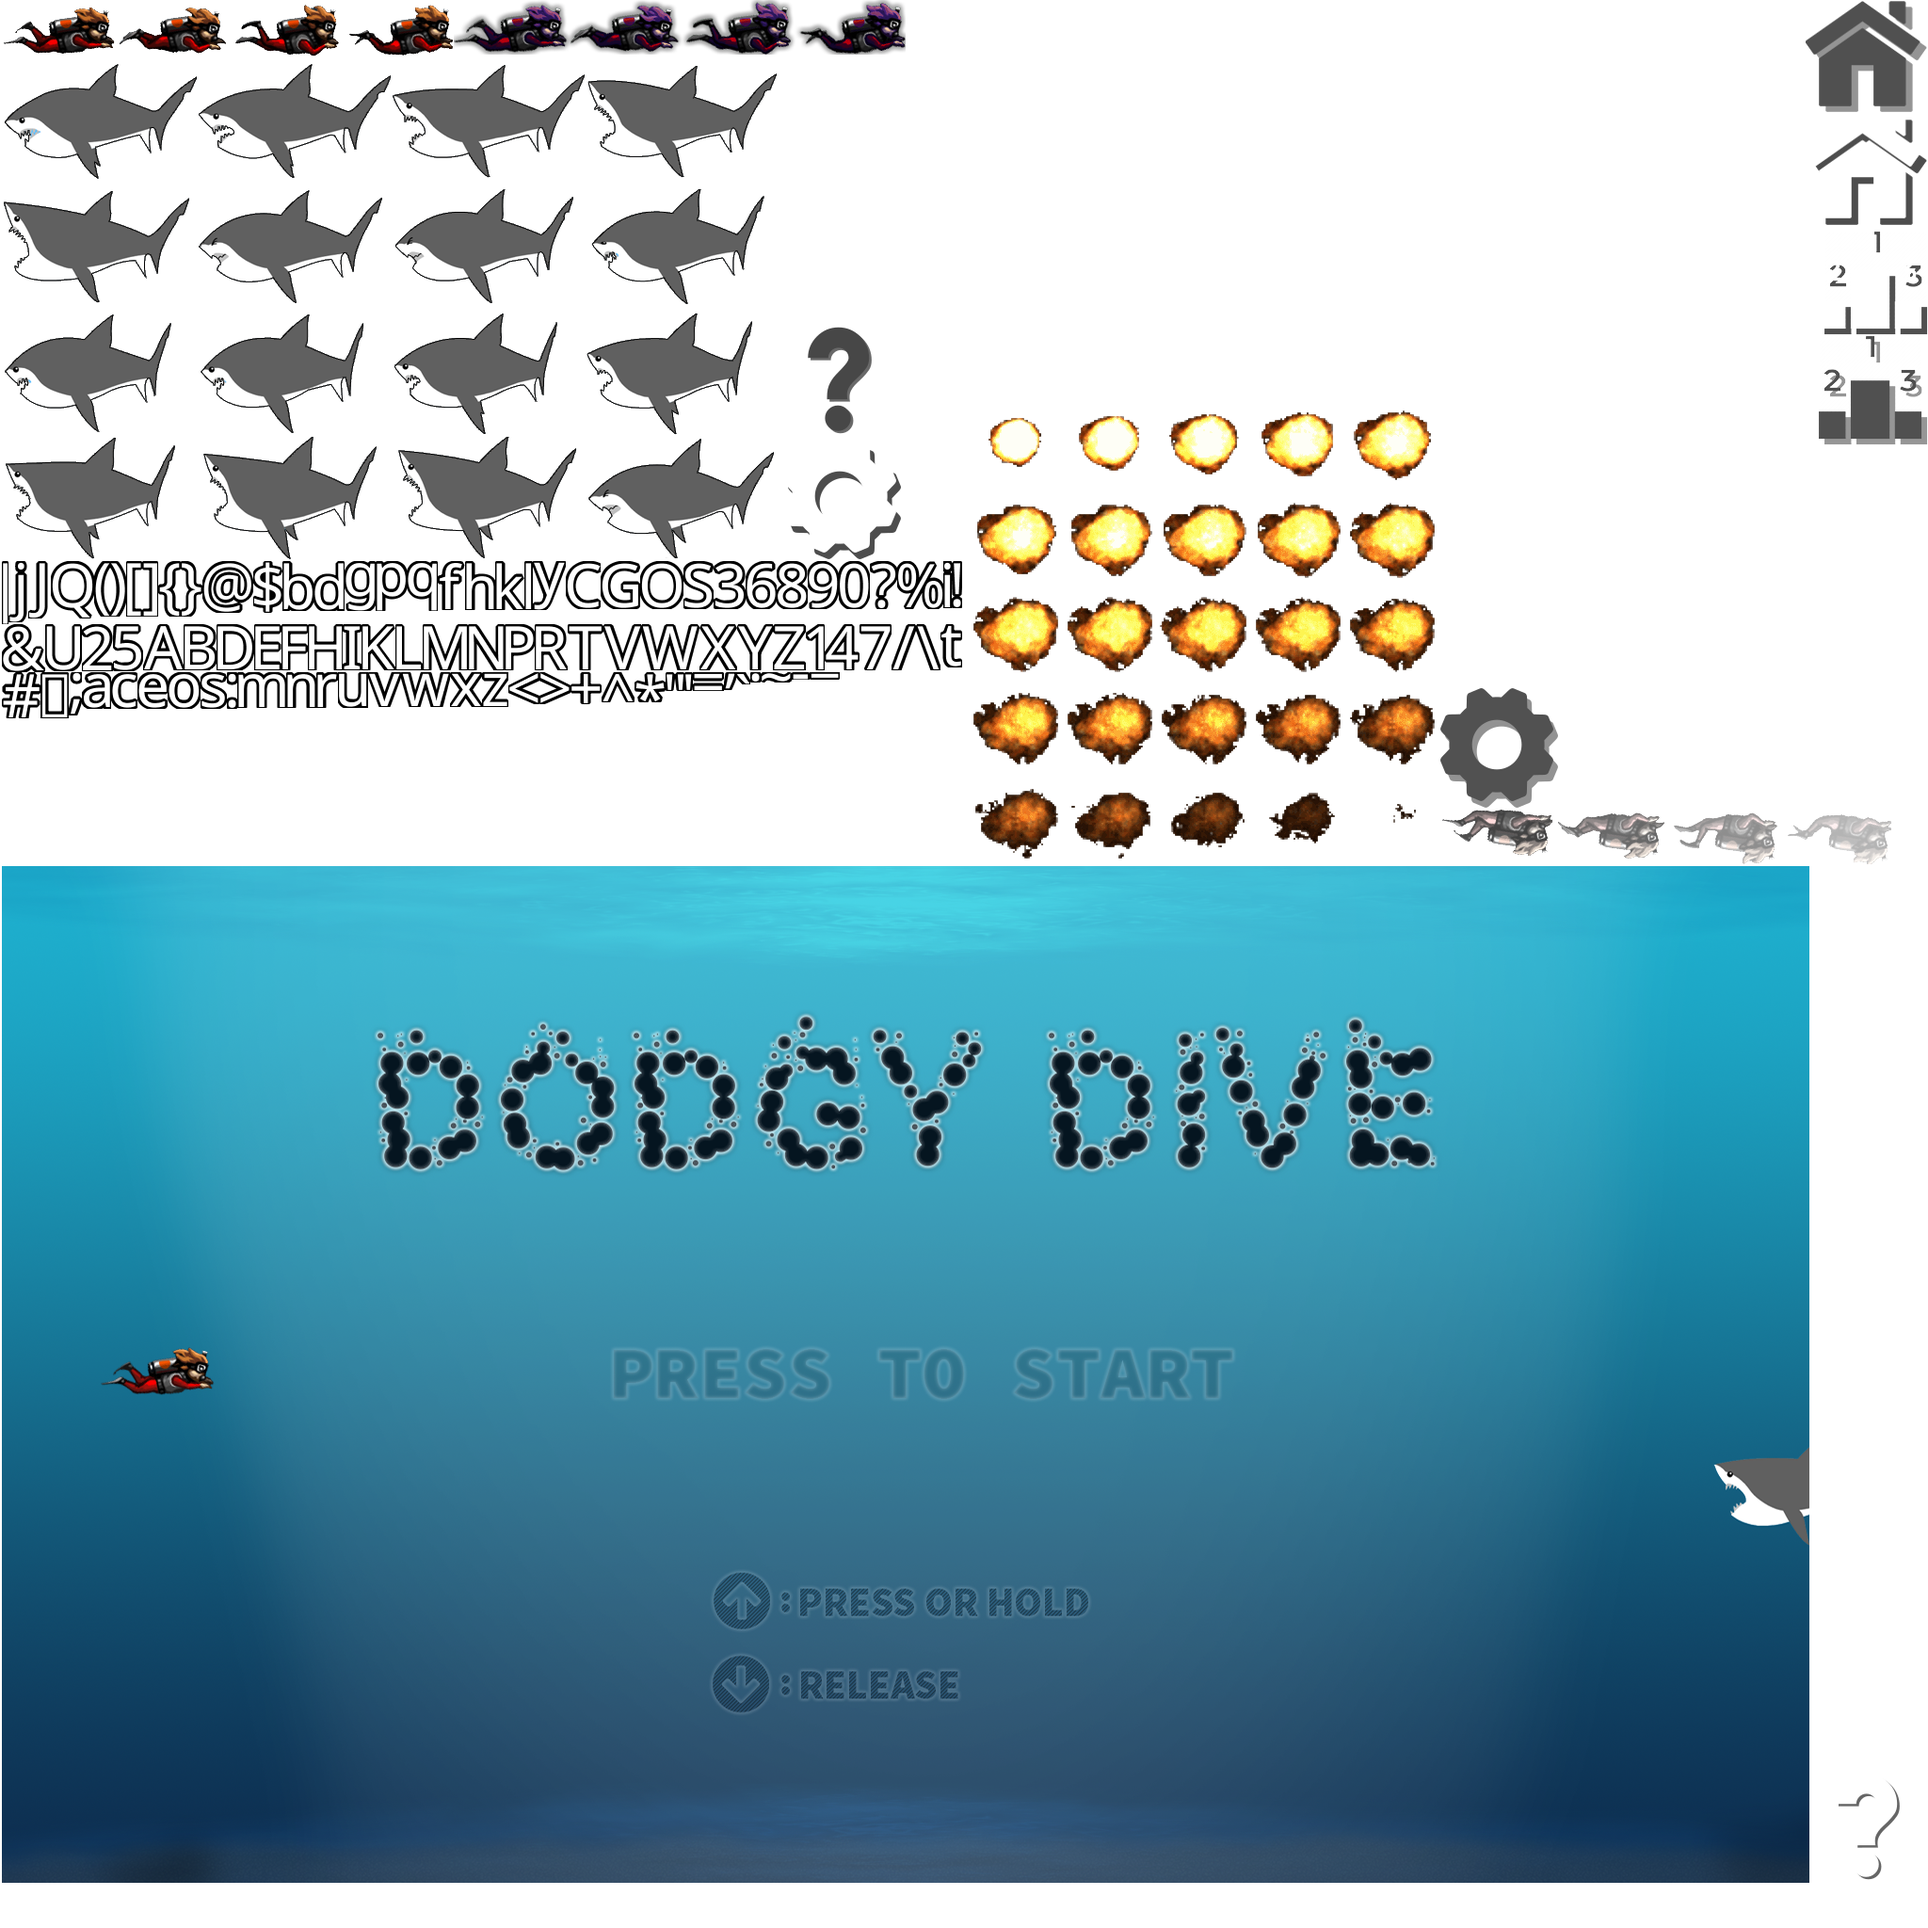
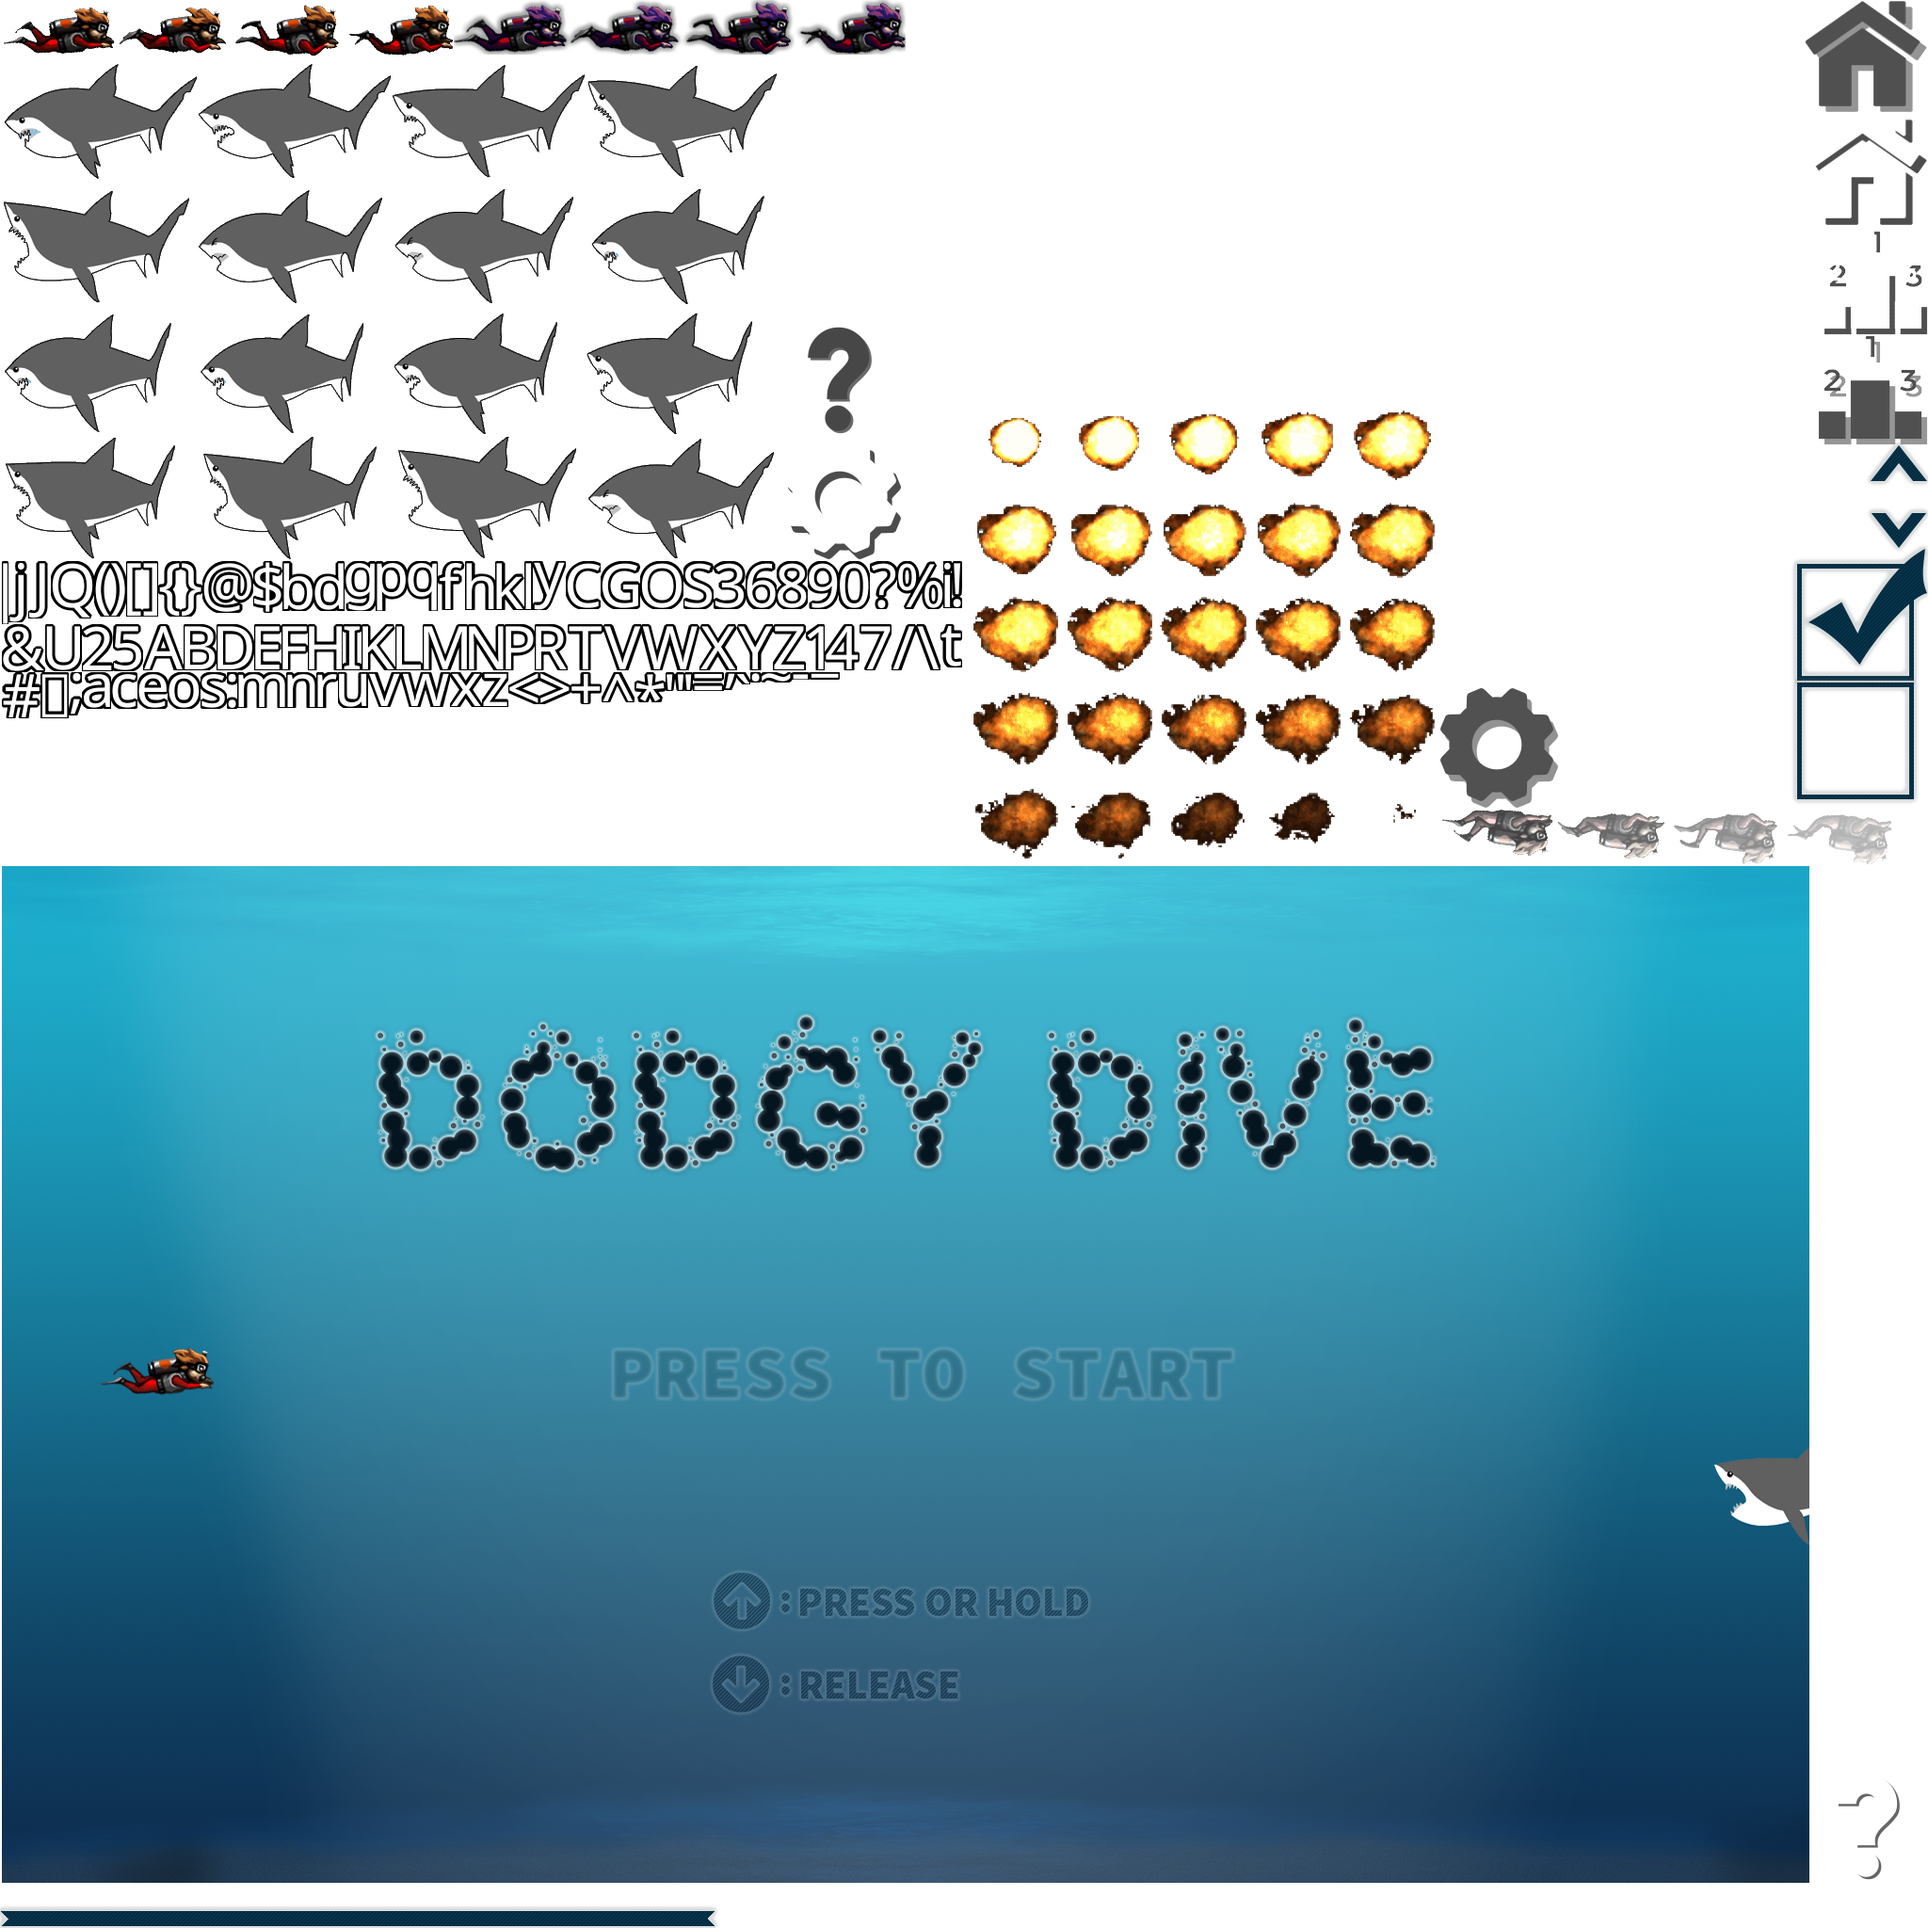
Implemented settings
Settings now work and do what they are supposed to. They persist so even
if you exit the app you'll come back to the same settings.

Changed region(s): [[0.9062, 0.2188, 1.0, 0.4375], [0.0, 0.9688, 0.375, 1.0]]

diff --git a/core/src/com/dodgydive/SettingsScreen.java b/core/src/com/dodgydive/SettingsScreen.java
@@ -5,14 +5,20 @@ import com.badlogic.gdx.Preferences;
 import com.badlogic.gdx.ScreenAdapter;
 import com.badlogic.gdx.graphics.Color;
 import com.badlogic.gdx.graphics.GL20;
+import com.badlogic.gdx.graphics.g2d.BitmapFont;
 import com.badlogic.gdx.graphics.g2d.TextureAtlas;
 import com.badlogic.gdx.graphics.g2d.TextureRegion;
+import com.badlogic.gdx.graphics.g2d.freetype.FreeTypeFontGenerator;
 import com.badlogic.gdx.scenes.scene2d.InputEvent;
 import com.badlogic.gdx.scenes.scene2d.Stage;
+import com.badlogic.gdx.scenes.scene2d.ui.CheckBox;
 import com.badlogic.gdx.scenes.scene2d.ui.Image;
 import com.badlogic.gdx.scenes.scene2d.ui.ImageButton;
+import com.badlogic.gdx.scenes.scene2d.ui.Slider;
 import com.badlogic.gdx.scenes.scene2d.ui.Table;
 import com.badlogic.gdx.scenes.scene2d.utils.ActorGestureListener;
+import com.badlogic.gdx.scenes.scene2d.utils.DragListener;
+import com.badlogic.gdx.scenes.scene2d.utils.Drawable;
 import com.badlogic.gdx.scenes.scene2d.utils.TextureRegionDrawable;
 import com.badlogic.gdx.utils.Align;
 
@@ -34,7 +40,7 @@ public class SettingsScreen extends ScreenAdapter {
 	private final DodgyDiveGame dodgyDiveGame;
 
 	private Stage stage;
-	private Table table;
+	private Table table, settingsTable;
 
 	private TextureRegion backgroundTexture;
 	private TextureRegion creditsTexture;
@@ -43,6 +49,11 @@ public class SettingsScreen extends ScreenAdapter {
 	private TextureRegion homePressedTexture;
 	private TextureRegion scoreboardTexture;
 	private TextureRegion scoreboardPressedTexture;
+	private TextureRegionDrawable sliderBackground;
+	private TextureRegionDrawable sliderKnob;
+	private TextureRegionDrawable checkbox;
+	private TextureRegionDrawable checkboxChecked;
+	private BitmapFont customFont;
 
 
 	public SettingsScreen(DodgyDiveGame dodgyDiveGame) {
@@ -63,6 +74,18 @@ public class SettingsScreen extends ScreenAdapter {
 		// A table is just like an html/excel table that holds UI elements like buttons.
 		table = new Table();
 		table.setFillParent(true);
+		settingsTable = new Table();
+		settingsTable.setFillParent(true);
+
+		FreeTypeFontGenerator generator = new FreeTypeFontGenerator(Gdx.files.internal("score_font.ttf"));
+		FreeTypeFontGenerator.FreeTypeFontParameter parameter = new FreeTypeFontGenerator.FreeTypeFontParameter();
+		parameter.size = 58;
+		parameter.kerning = true;
+		parameter.borderStraight = true;
+		parameter.borderWidth = 1;
+		customFont = generator.generateFont(parameter);
+		customFont.setColor(0, 0, 0, 0.70f); // Make our font slightly transparent so it doesn't obscure sharks during game-play
+		generator.dispose(); // don't forget to dispose to avoid memory leaks!
 
 		// Load the textureAtlas so we can use our images on this screen.
 		TextureAtlas textureAtlas = dodgyDiveGame.getAssetManager().get("dodgy_dive_assets.atlas");
@@ -74,10 +97,14 @@ public class SettingsScreen extends ScreenAdapter {
 		background.setWidth(WORLD_WIDTH);
 		background.setHeight(WORLD_HEIGHT);
 
+		sliderBackground = new TextureRegionDrawable(textureAtlas.findRegion("slider"));
+		sliderKnob = new TextureRegionDrawable(textureAtlas.findRegion("slider_knob"));
+		checkbox = new TextureRegionDrawable(textureAtlas.findRegion("checkbox"));
+		checkboxChecked = new TextureRegionDrawable(textureAtlas.findRegion("checkbox_checked"));
 		// Load up the different states for the settings button (unpressed and pressed states) and
 		// then set up a new image based button using these textures.
-		creditsTexture = textureAtlas.findRegion("settings");
-		creditsPressedTexture = textureAtlas.findRegion("settings_pressed");
+		creditsTexture = textureAtlas.findRegion("credits");
+		creditsPressedTexture = textureAtlas.findRegion("credits_pressed");
 		ImageButton creditsButton = new ImageButton(new TextureRegionDrawable(creditsTexture),
 				new TextureRegionDrawable(creditsPressedTexture));
 
@@ -136,14 +163,74 @@ public class SettingsScreen extends ScreenAdapter {
 		// Here we add UI elements to the stage container and table container
 		stage.addActor(background);
 		stage.addActor(table);
+		stage.addActor(settingsTable);
 
+		table.left();
+		settingsTable.center().top();
 		// Using expand() we make the newly add UI element and table cell fill up as much space
 		// as it can. Using pad(16) and align(Align.topRight) we pad the UI element cells by 16px
 		// and set it to align itself with the top right of the screen.
 		scoreboardButton.padLeft(12);
-		table.add(scoreboardButton).expand().pad(16).align(Align.bottomRight);
-		table.add(homeButton).pad(16).align(Align.bottomRight);
-		table.add(creditsButton).pad(16).align(Align.bottomRight);
+		table.add(scoreboardButton).size(90, 90).pad(16).align(Align.bottomLeft);
+		table.add(homeButton).size(90, 90).pad(16).align(Align.bottomLeft);
+		table.add(creditsButton).size(90, 90).expand().pad(16).align(Align.bottomLeft);
+
+		settingsTable.padLeft(WORLD_WIDTH/2);
+		settingsTable.padTop(239);
+
+		final CheckBox backgroundCheckbox = new CheckBox(null, new CheckBox.CheckBoxStyle(checkbox, checkboxChecked, customFont, null));
+		settingsTable.add(backgroundCheckbox).size(147, 143).pad(33).row();
+		backgroundCheckbox.setChecked(PREFS.contains("gameBackground") ? PREFS.getString("gameBackground").equalsIgnoreCase("background_radioactive") : false);
+		backgroundCheckbox.addListener(new ActorGestureListener() {
+			@Override
+			public void tap(InputEvent event, float x, float y, int count, int button) {
+				super.tap(event, x, y, count, button);
+				if(backgroundCheckbox.isChecked()) {
+					updateGameBackground("background_radioactive");
+				}
+				else{
+					updateGameBackground("background");
+				}
+			}
+		});
+
+		final CheckBox costumeCheckbox = new CheckBox(null, new CheckBox.CheckBoxStyle(checkbox, checkboxChecked, customFont, null));
+		settingsTable.add(costumeCheckbox).size(147, 143).pad(33).row();
+		costumeCheckbox.setChecked(PREFS.contains("diverCostume") ? PREFS.getString("diverCostume").equalsIgnoreCase("diver_alt") : false);
+		costumeCheckbox.addListener(new ActorGestureListener() {
+			@Override
+			public void tap(InputEvent event, float x, float y, int count, int button) {
+				super.tap(event, x, y, count, button);
+				if(costumeCheckbox.isChecked()) {
+					updateDiverCostume("diver_alt");
+				}
+				else{
+					updateDiverCostume("diver");
+				}
+			}
+		});
+
+		final Slider musicSlider = new Slider(0, 1, 0.1f, false, new Slider.SliderStyle(sliderBackground, sliderKnob));
+		musicSlider.setValue(PREFS.contains("musicVolume") ? PREFS.getFloat("musicVolume") : 0.5f);
+		settingsTable.add(musicSlider).width((WORLD_WIDTH/2) - 100).pad(33).row();
+        musicSlider.addListener(new DragListener() {
+	        @Override
+	        public void dragStop(InputEvent event, float x, float y, int pointer) {
+		        super.dragStop(event, x, y, pointer);
+                updateMusicVolume(musicSlider.getValue());
+	        }
+        });
+
+		final Slider diffSlider = new Slider(100, 250, 10f, false, new Slider.SliderStyle(sliderBackground, sliderKnob));
+		diffSlider.setValue(PREFS.contains("difficulty") ? PREFS.getFloat("difficulty") : 175f);
+		settingsTable.add(diffSlider).width((WORLD_WIDTH/2) - 100).pad(33).padTop(42).row();
+		diffSlider.addListener(new DragListener() {
+			@Override
+			public void dragStop(InputEvent event, float x, float y, int pointer) {
+				super.dragStop(event, x, y, pointer);
+				updateDifficulty(diffSlider.getValue());
+			}
+		});
 	}
 
 	public void updateDiverCostume(String costumeName) {
@@ -156,7 +243,7 @@ public class SettingsScreen extends ScreenAdapter {
 		PREFS.flush();
 	}
 
-	public void musicVolume(float volume) {
+	public void updateMusicVolume(float volume) {
 		PREFS.putFloat("musicVolume", volume);
 		PREFS.flush();
 	}

diff --git a/core/src/com/dodgydive/StartScreen.java b/core/src/com/dodgydive/StartScreen.java
@@ -134,9 +134,9 @@ public class StartScreen extends ScreenAdapter {
         // Using expand() we make the newly add UI element and table cell fill up as much space
         // as it can. Using pad(16) and align(Align.topRight) we pad the UI element cells by 16px
         // and set it to align itself with the top right of the screen.
-        table.add(settingsButton).expand().pad(16).align(Align.bottomRight);
-        table.add(scoreboardButton).pad(16).align(Align.bottomRight);
-        table.add(creditsButton).pad(16).align(Align.bottomRight);
+        table.add(settingsButton).size(90, 90).expand().pad(16).align(Align.bottomRight);
+        table.add(scoreboardButton).size(90, 90).pad(16).align(Align.bottomRight);
+        table.add(creditsButton).size(90, 90).pad(16).align(Align.bottomRight);
 
         // Add a gesture listener to the background image so we can detect when the user taps the
         // background and not the buttons.

diff --git a/core/src/com/dodgydive/ScoreboardScreen.java b/core/src/com/dodgydive/ScoreboardScreen.java
@@ -163,9 +163,9 @@ public class ScoreboardScreen extends ScreenAdapter {
 		// Using expand() we make the newly add UI element and table cell fill up as much space
 		// as it can. Using pad(16) and align(Align.topRight) we pad the UI element cells by 16px
 		// and set it to align itself with the top right of the screen.
-		table.add(settingsButton).expand().pad(16).align(Align.bottomRight);
-		table.add(homeButton).pad(16).align(Align.bottomRight);
-		table.add(creditsButton).pad(16).align(Align.bottomRight);
+		table.add(settingsButton).size(90, 90).expand().pad(16).align(Align.bottomRight);
+		table.add(homeButton).size(90, 90).pad(16).align(Align.bottomRight);
+		table.add(creditsButton).size(90, 90).pad(16).align(Align.bottomRight);
 
 
 		scoresFileHandle = Gdx.files.local("scores.txt");

diff --git a/core/src/com/dodgydive/CreditsScreen.java b/core/src/com/dodgydive/CreditsScreen.java
@@ -136,9 +136,9 @@ public class CreditsScreen extends ScreenAdapter {
 		// as it can. Using pad(16) and align(Align.topRight) we pad the UI element cells by 16px
 		// and set it to align itself with the top right of the screen.
 		scoreboardButton.padLeft(12);
-		table.add(settingsButton).expand().pad(16).align(Align.bottomRight);
-		table.add(scoreboardButton).pad(16).align(Align.bottomRight);
-		table.add(homeButton).pad(16).align(Align.bottomRight);
+		table.add(settingsButton).size(90, 90).expand().pad(16).align(Align.bottomRight);
+		table.add(scoreboardButton).size(90, 90).pad(16).align(Align.bottomRight);
+		table.add(homeButton).size(90, 90).pad(16).align(Align.bottomRight);
 	}
 
 	/*

diff --git a/core/src/com/dodgydive/Shark.java b/core/src/com/dodgydive/Shark.java
@@ -20,7 +20,7 @@ public class Shark {
     private static final int TILE_WIDTH = 207;
     private static final int TILE_HEIGHT = 133;
     private static final float FRAME_DURATION = 0.15f;
-    private static final float SWIM_SPEED = PREFS.contains("difficulty") ? (float) Math.ceil(PREFS.getInteger("difficulty") + 108f) : 108f;
+    private final float SWIM_SPEED = PREFS.contains("difficulty") ? PREFS.getFloat("difficulty") : 175f;
 
     private final Rectangle collisionRect;
     private final Animation swimAnimation;
